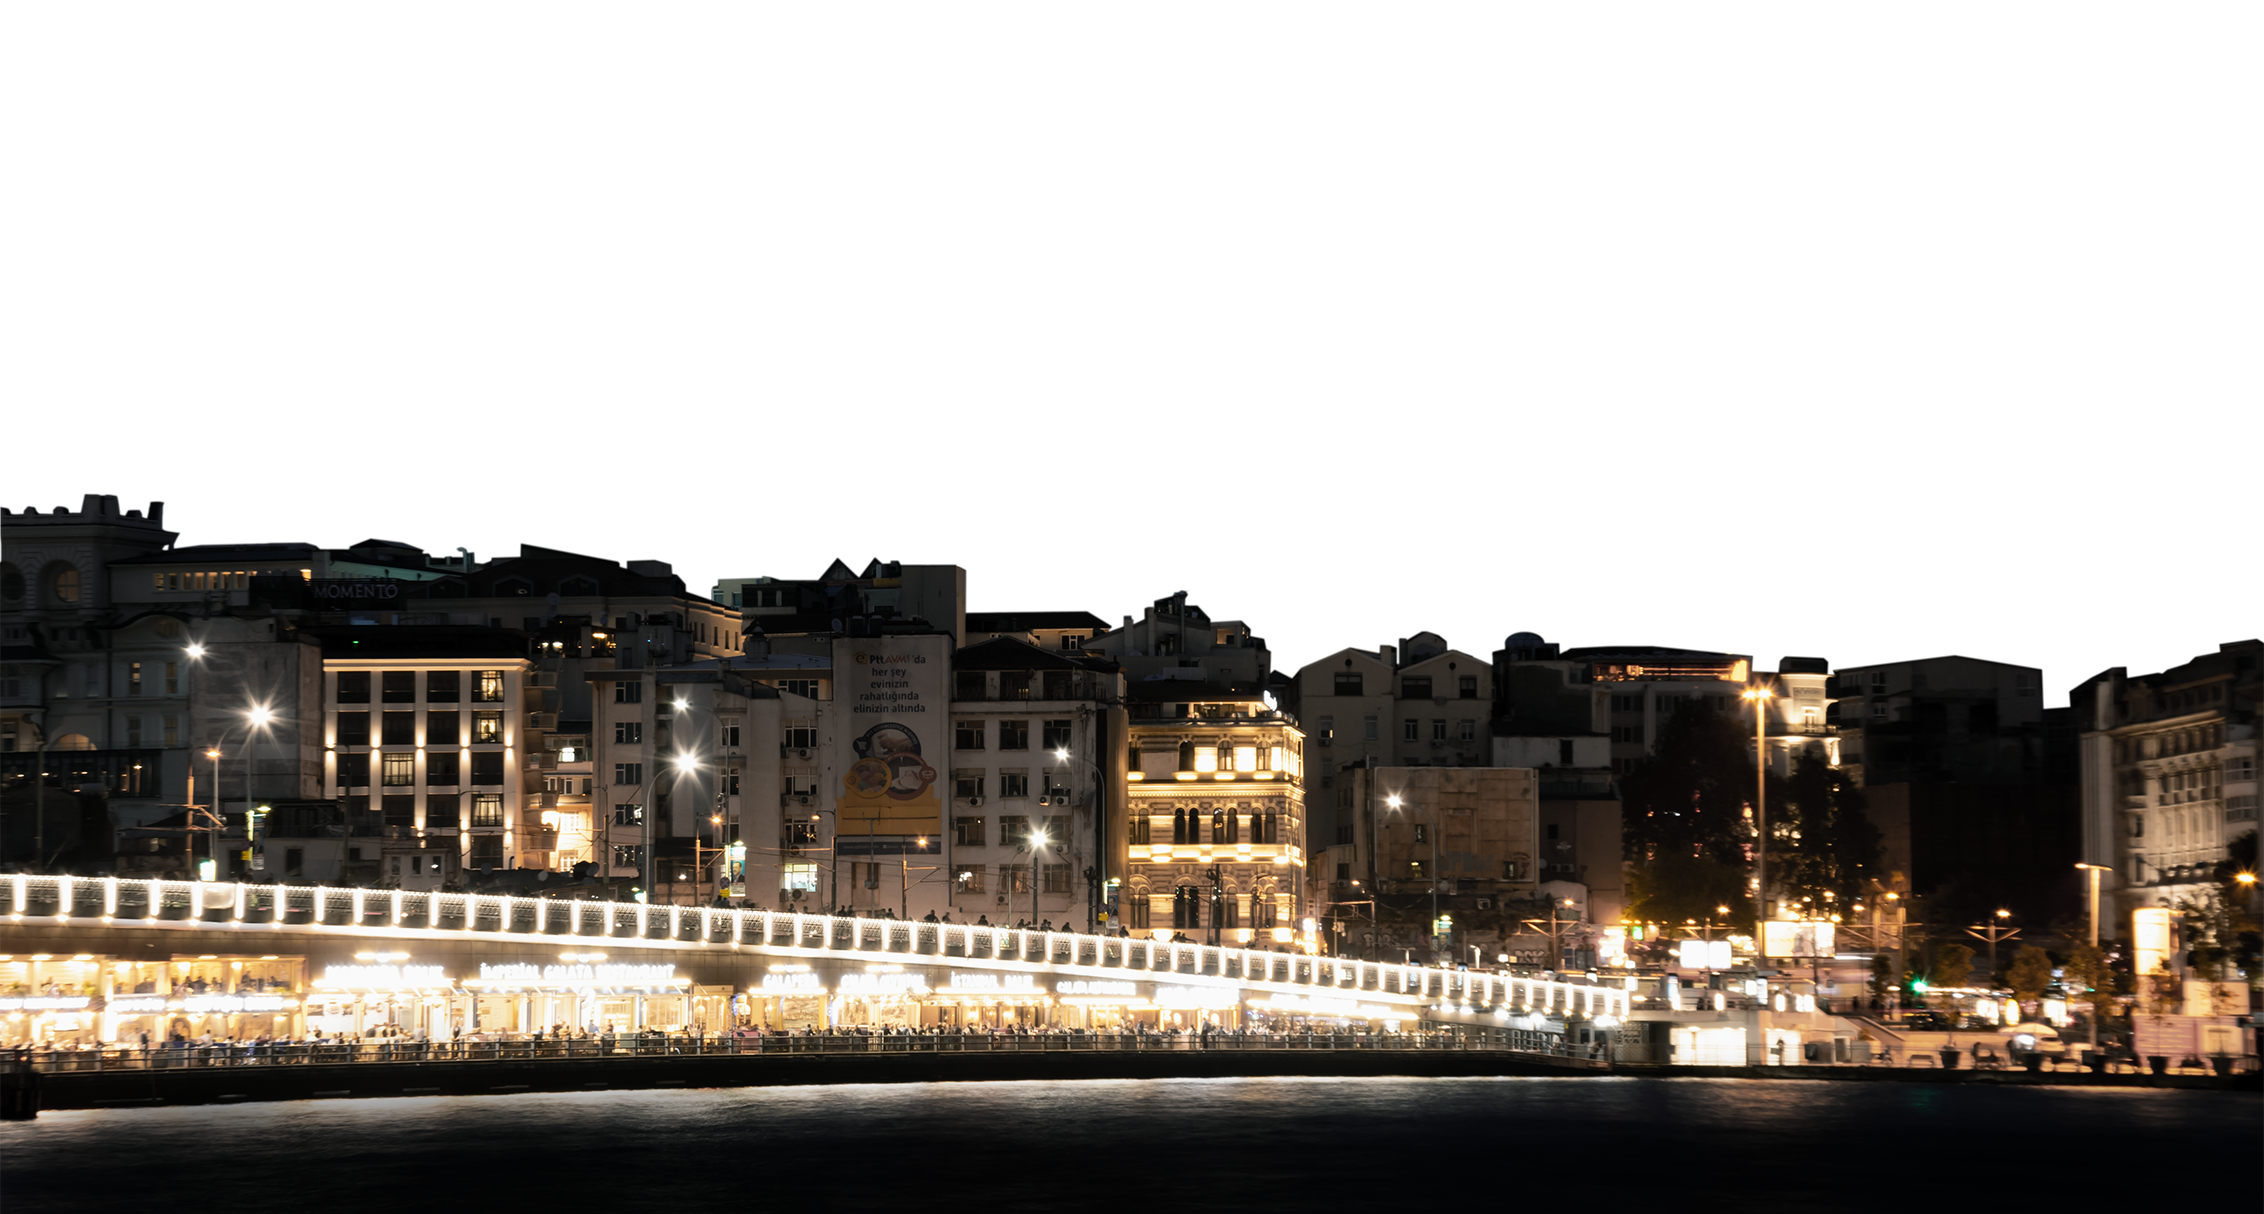
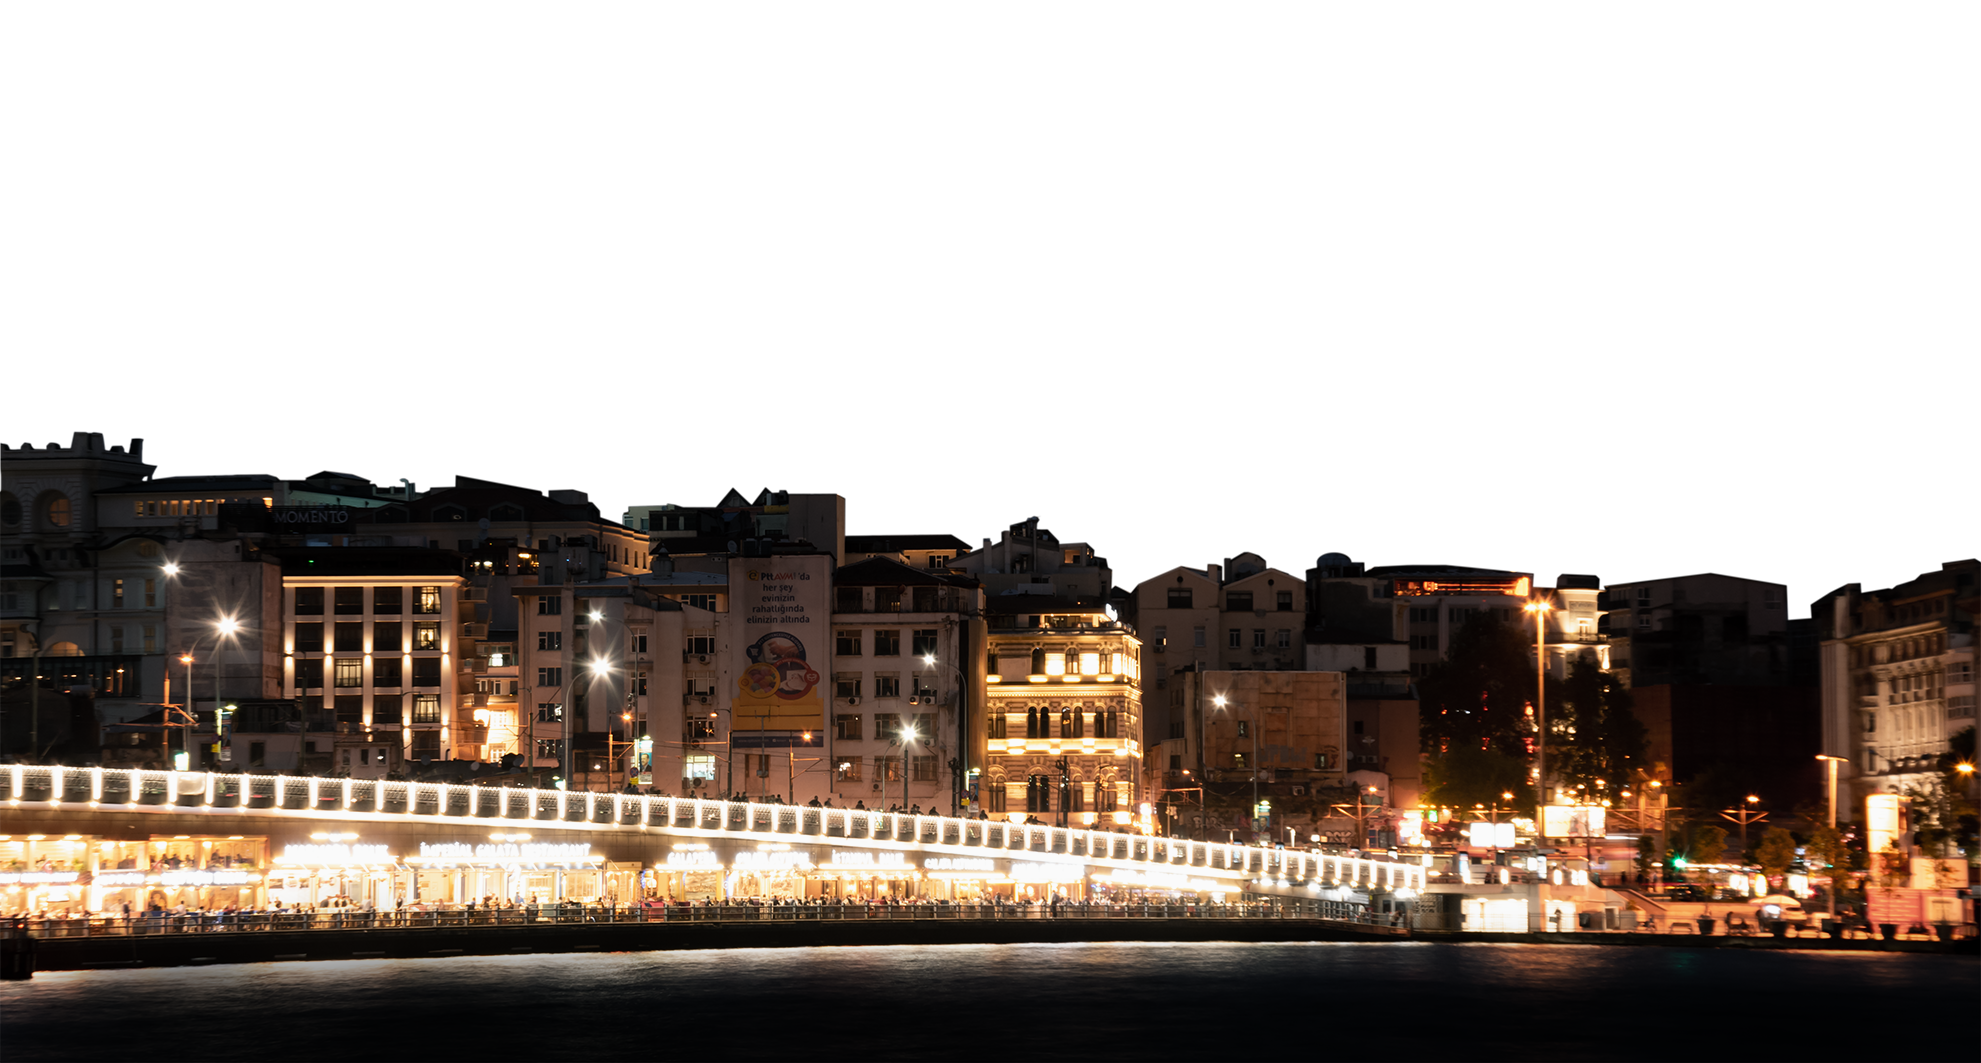
parallax prop

diff --git a/components/Section.tsx b/components/Section.tsx
@@ -1,17 +1,18 @@
 import { useEffect, useRef, useState } from "react";
 import { SectionData } from "@/app/common.types";
 import { staggerContainer } from "@/utils/motion";
-import { motion, useAnimation } from "framer-motion";
+import { motion, useScroll, useTransform } from "framer-motion";
 import { handleScroll } from "@/utils/handleScroll";
 import { ScrollProvider } from "@/context/ScrollContext";
+import Image from "next/image";
 
 const Section = ({ sectionsData }: { sectionsData: SectionData[] }) => {
   const sectionRefs = sectionsData.map(() =>
     useRef<any | HTMLDivElement>(null)
   );
   const [currentSectionIndex, setCurrentSectionIndex] = useState<number>(0);
-  const controls = useAnimation();
-  const [scrollOffset, setScrollOffset] = useState<number>(0);
+  const { scrollY } = useScroll();
+  const y = useTransform(scrollY, [0, 2000], [0, -2000]);
 
   useEffect(() => {
     const handleScrollEvent = (event: WheelEvent) => {
@@ -24,7 +25,6 @@ const Section = ({ sectionsData }: { sectionsData: SectionData[] }) => {
         setCurrentSectionIndex,
         smoothScroll: !currentSection.parallax ?? true,
       });
-      setScrollOffset(window.scrollY);
     };
 
     window.addEventListener("wheel", handleScrollEvent);
@@ -47,16 +47,62 @@ const Section = ({ sectionsData }: { sectionsData: SectionData[] }) => {
             key={index}
             ref={sectionRefs[index]}
             className={`
-              ${section.className} 
-              h-auto w-screen flex items-center justify-center overflow-hidden 
-              ${
-                section.parallax
-                  ? "sticky top-0 h-screen z-0 "
-                  : "bg-black relative"
-              } 
-            `}
+      ${section.className} 
+      h-auto min-h-[100svh] w-screen flex items-center justify-center overflow-visible 
+      ${section.parallax ? "sticky top-0 h-screen z-0 " : "bg-black relative"} 
+    `}
           >
+            {section.background && (
+              <motion.div
+                style={{
+                  y: section.parallax ? -y : 0,
+                  position: "absolute",
+                  top: 0,
+                  left: 0,
+                  width: "100vw",
+                  height: "100svh",
+                  zIndex: 0,
+                  pointerEvents: "none",
+                }}
+                key={index}
+              >
+                <Image
+                  src={section.background}
+                  alt={section.background}
+                  layout="fill"
+                  objectFit="cover"
+                  quality={100}
+                  loading="eager"
+                  className="z-0"
+                />
+              </motion.div>
+            )}
             {section.children}
+            {section.topImage && (
+              <motion.div
+                style={{
+                  y,
+                  position: "absolute",
+                  top: 0,
+                  left: 0,
+                  width: "100vw",
+                  height: "100svh",
+                  zIndex: 10,
+                  pointerEvents: "none",
+                }}
+                key={index}
+              >
+                <Image
+                  src={section.topImage}
+                  alt={section.topImage}
+                  layout="fill"
+                  objectFit="cover"
+                  quality={100}
+                  loading="eager"
+                  className="galata1 bottom-0"
+                />
+              </motion.div>
+            )}
           </motion.section>
         ))}
       </div>

diff --git a/components/Sections/LandingSect.tsx b/components/Sections/LandingSect.tsx
@@ -1,5 +1,5 @@
 "use client";
-import ParticlesBack from "../ParticlesBack/ParticlesBack";
+import Image from "next/image";
 import ArrowButton from "../ArrowButton";
 import { textVariant, fadeIn, slideIn } from "@/utils/motion";
 import { motion } from "framer-motion";
@@ -12,7 +12,6 @@ import { RootState } from "@/store";
 import { SocialIcons } from "../SocialIcons";
 import TypingText from "../typeText";
 import { socialIcons } from "@/constants";
-import ParallaxImage from "../ParallaxImage";
 
 const LandingSect = () => {
   const { t, i18n } = useTranslation(["translation"]);
@@ -39,7 +38,7 @@ const LandingSect = () => {
 
   return (
     <>
-      <div className="anaDiv flex flex-center justify-center h-auto min-h-[100svh] w-full relative galata0">
+      <div className="anaDiv flex flex-center justify-center h-auto min-h-screen w-full relative overflow-hidden">
         <div
           className={`pt-10 flex flex-row max-lg:flex-col lg:gap-0 gap-0 m-10 justify-center max-md:m-8 items-center max-lg:items-start z-0 pb-[165px] ${
             screenHeight <= 500 ? "pb-0 z-40" : ""
@@ -103,12 +102,7 @@ const LandingSect = () => {
             </motion.div>
           </div>
         </div>
-        {/* <div className="absolute inset-0 z-30 h-full w-full pointer-events-none">
-          <ParticlesBack />
-        </div> */}
-        <div className="absolute h-full w-full z-30 pointer-events-none">
-          <ParallaxImage imageSource="galata1" alt="galata" />
-        </div>
+
         <motion.div
           initial={{
             clipPath: "polygon(0 0, 100% 0, 100% 0, 0 0)",

diff --git a/constants/index.tsx b/constants/index.tsx
@@ -19,9 +19,6 @@ import {
 } from "react-icons/fa";
 import { codeString } from "./codeString";
 import TypingText from "@/components/typeText";
-import AboutMeSect from "@/components/Sections/AboutMeSect";
-import LandingSect from "@/components/Sections/LandingSect";
-import PortfolioSect from "@/components/Sections/PortfolioSect";
 
 export const Links = [
   { href: "/", key: "Home", text: "links.Home" },
@@ -29,25 +26,6 @@ export const Links = [
   { href: "/services", key: "Services", text: "links.Services" },
   { href: "/about", key: "About", text: "links.About" },
   { href: "/contact", key: "Contact", text: "links.Contact" },
-];
-
-export const sectionsData: SectionData[] = [
-  {
-    name: "Landing Section",
-    children: <LandingSect />,
-    parallax: true,
-  },
-  {
-    name: "About Me",
-    children: <AboutMeSect />,
-    parallax: false,
-  },
-  {
-    name: "Portfolio",
-    children: <PortfolioSect />,
-    parallax: false,
-  },
-  { name: "contact" },
 ];
 
 export const socialIcons: SocialIconsType[] = [

diff --git a/app/page.tsx b/app/page.tsx
@@ -1,8 +1,31 @@
 "use client";
 import Section from "@/components/Section";
-import { sectionsData } from "@/constants";
+import { SectionData } from "./common.types";
+import AboutMeSect from "@/components/Sections/AboutMeSect";
+import LandingSect from "@/components/Sections/LandingSect";
+import PortfolioSect from "@/components/Sections/PortfolioSect";
 
 const Home = () => {
+  const sectionsData: SectionData[] = [
+    {
+      name: "Landing Section",
+      children: <LandingSect />,
+      parallax: true,
+      background: "/galata_0.png",
+      topImage: "/galata_1.png",
+    },
+    {
+      name: "About Me",
+      children: <AboutMeSect />,
+      parallax: false,
+    },
+    {
+      name: "Portfolio",
+      children: <PortfolioSect />,
+      parallax: false,
+    },
+  ];
+
   return (
     <>
       <div>

diff --git a/components/ParallaxImage.tsx b/components/ParallaxImage.tsx
@@ -18,10 +18,6 @@ const ParallaxImage = ({ imageSource, alt }: ParallaxImageType) => {
     return () => window.removeEventListener("scroll", handleScroll);
   }, []);
 
-  useEffect(() => {
-    controls.start({ y: offsetY * -1 });
-  }, [offsetY, controls]);
-
   return (
     <div>
       <motion.div

diff --git a/app/globals.scss b/app/globals.scss
@@ -295,9 +295,6 @@ body {
 }
 
 .galata1 {
-  background-image: url("/galata_1.png");
-  background-size: cover;
-  background-position: center;
   -webkit-filter: drop-shadow(5px 5px 3px #141414);
   filter: drop-shadow(5px 5px 3px #141414);
 }

diff --git a/app/common.types.ts b/app/common.types.ts
@@ -9,6 +9,8 @@ export type SectionData = {
   parallax?: boolean | false;
   parallaxImageSrc?: string;
   parallaxImageAlt?: string;
+  background?: string;
+  topImage?: string;
 };
 
 export type SocialIconsType = {

diff --git a/next.config.js b/next.config.js
@@ -1,7 +1,7 @@
 /** @type {import('next').NextConfig} */
 module.exports = {
   images: {
-    domains: ["picsum.photos"],
+    domains: [],
   },
   i18n: {
     locales: ["en", "de", "tr"],
